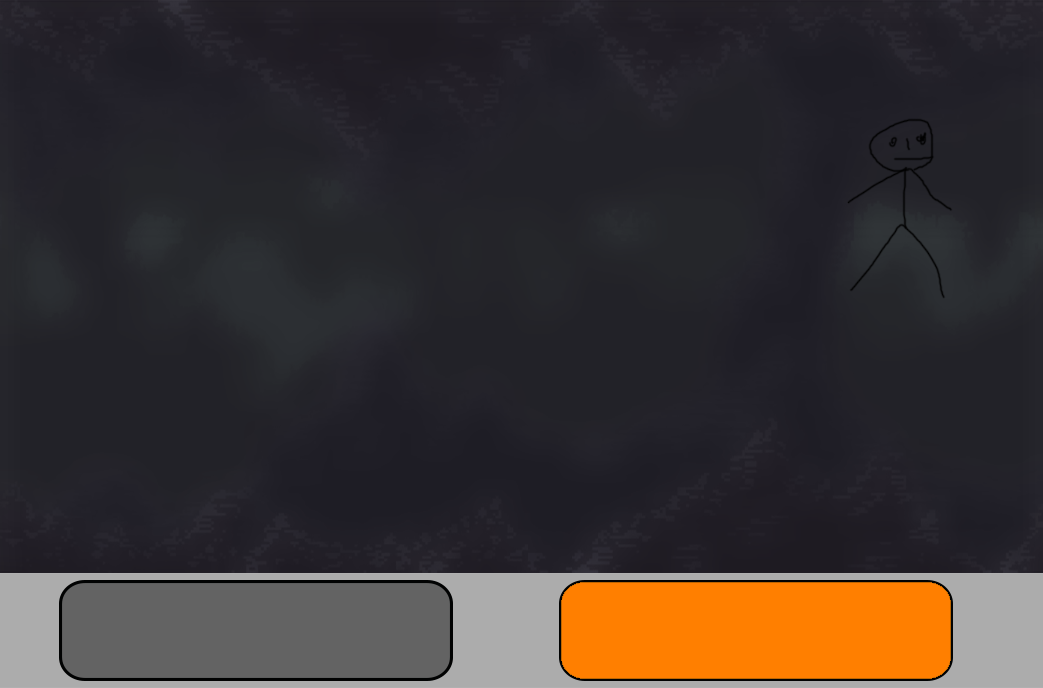
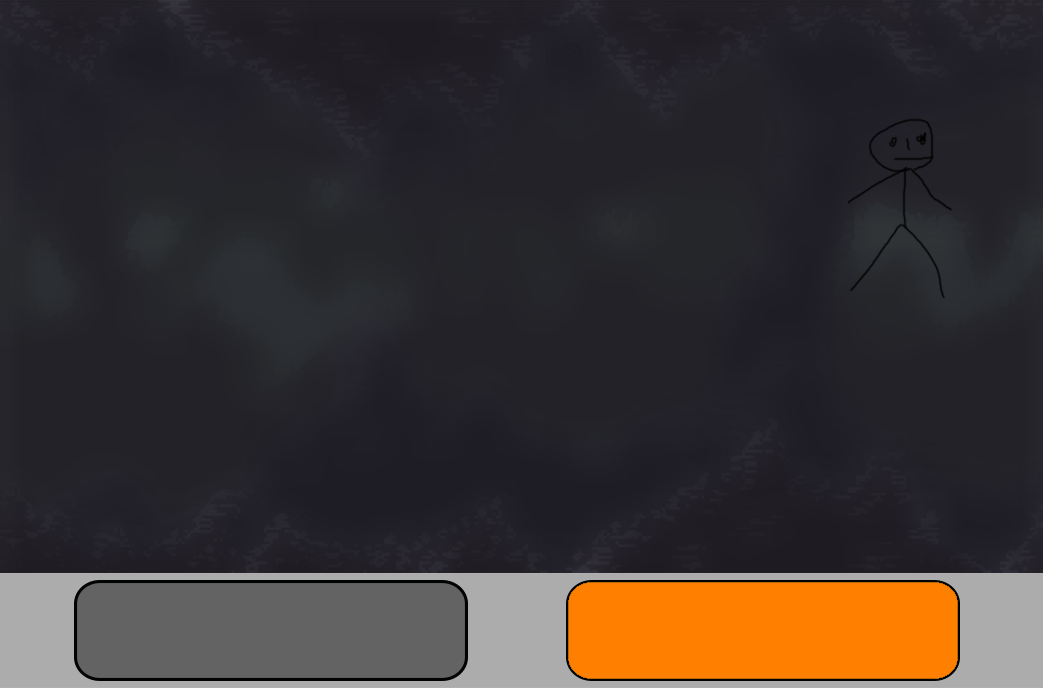
overlay

diff --git a/App/UCPoL/src/app/main/components/game/game.component.scss b/App/UCPoL/src/app/main/components/game/game.component.scss
@@ -6,6 +6,8 @@ $enemy1V : var(--venemy1);
 
 
 .container{
+
+    margin-left: 30px;
     width: 70vw;
     height: 73vh;
     border-style: solid;
@@ -14,6 +16,7 @@ $enemy1V : var(--venemy1);
     overflow: scroll;
     background-repeat: no-repeat;
     background-image: url(../../../../assets/img/env/dom_inside.png);
+    background-color: dimgray;
 }
 .hero{
     width: 128px;
@@ -45,11 +48,12 @@ $enemy1V : var(--venemy1);
     visibility: $vprops;
 }
 #battle{
-    width: 100%;
+    width: 101.5%;
     height: 100%;
     background-image: url(../../../../assets/img/env/tuo.png);
     z-index: 100;
     visibility: $vbattle;
+    margin-left: -30px;
 
 }
 #battle > h1{
@@ -67,14 +71,14 @@ $enemy1V : var(--venemy1);
     
 }
 #battle > div:nth-child(3){
-    margin-top: 49%;
-    margin-left: 12%;
+    margin-top: 48%;
+    margin-left: 13%;
     float: left;
     font-size: 50px;
 }
 
 #battle > div:nth-child(4){
-    margin-top: 45%;
+    margin-top: 44.3%;
     float: left;
     margin-left: 25%;
 

diff --git a/App/UCPoL/src/app/main/components/logs/logs.component.html b/App/UCPoL/src/app/main/components/logs/logs.component.html
@@ -1,14 +1,14 @@
 
 <div class = "container">
   <div class="controls">
-    <button (click)="move(-1,0)" class="left">Left</button>
-    <button (click)="move(0,-1)" class="up">UP</button>
-    <button (click)="move(0,1)" class="down">Down</button>
-    <button (click)="move(1,0)"class="right">Right</button>
+    <button (click)="move(0,-1)" class="up">↑</button><br>
+    <button (click)="move(-1,0)" class="left">←</button>
+    <button (click)="move(0,1)" class="down">↓</button>
+    <button (click)="move(1,0)"class="right">→</button>
 
-  </div>
+  <br></div>
     <li *ngFor="let log of logs">
-  <span class="badge">{{log.date}}</span> : 
+
 {{log.message}} {{log.value}} 
 </li>
 </div>

diff --git a/App/UCPoL/src/app/main/components/logs/log.ts b/App/UCPoL/src/app/main/components/logs/log.ts
@@ -1,17 +1,10 @@
 // tslint:disable-next-line: class-name
 interface logInt {
-    date: Date;
     message: string;
     value: number;
   }
 
-
 export let LOGS: logInt[] = [
-    { date: new Date(), message: 'Otrzymałeś obrażeń:', value: 5 },
-    { date: new Date(), message: 'Otrzymałeś obrażeń:', value: 5 },
-    { date: new Date(), message: 'Otrzymałeś obrażeń:', value: 5 },
-    { date: new Date(), message: 'Otrzymałeś obrażeń:', value: 5 },
-
-  ];
-
-
+      {message: 'Otrzymałeś obrażeń:', value: 5 },
+    ];
+  

diff --git a/App/UCPoL/src/app/main/components/bars/bars.component.scss b/App/UCPoL/src/app/main/components/bars/bars.component.scss
@@ -8,7 +8,7 @@ $hpPrctD : var(--hpPrctd);
     width: 38vw;
     float: right;
     overflow: hidden;
-    background-color: white;
+    background-color: dimgray;
 }
 .circle{
     border: black;
@@ -35,4 +35,11 @@ $hpPrctD : var(--hpPrctd);
     bottom: 0;
     background-image: url(../../../../assets/img/overlay.png);
     pointer-events: none;
+  }
+
+  p{
+    color: black;
+    font-weight: bold;
+    font-size: 20px;
+    margin-left: 86px;
   }

diff --git a/App/UCPoL/src/app/main/components/logs/logs.component.scss b/App/UCPoL/src/app/main/components/logs/logs.component.scss
@@ -5,11 +5,27 @@
     border-width: 1px;
     float:left;
     overflow: scroll;
-    background-color: white;
+    background-color: dimgray;
 }
 .controls{
+    margin-top: 55px;
     position: fixed;
-    float: right;
-    right: 1000px;
+    margin-left: 1020px;
+
 }
 
+
+button.up{
+    margin-left: 30px;
+    width: 30px;
+}
+
+button.down{
+    width: 30px;
+}
+
+li{
+    margin-top: 10px;
+    margin-left: 30px;
+    color: black;
+}

diff --git a/App/UCPoL/src/app/main/components/game/game.component.ts b/App/UCPoL/src/app/main/components/game/game.component.ts
@@ -89,7 +89,7 @@ sleep(ms = 0) {
     } */
   }
   addLog(newMessage:string,newValue:number){
-    this.logs.push({date:new Date(),message:newMessage,value:newValue});
+    this.logs.push({message:newMessage,value:newValue});
 }
   battle():void{
     document.documentElement.style.setProperty('--vprops', `hidden`);

diff --git a/App/UCPoL/src/app/main/components/logs/logs.component.ts b/App/UCPoL/src/app/main/components/logs/logs.component.ts
@@ -16,7 +16,7 @@ export class LogsComponent implements OnInit {
   }
 
   addLog(newMessage:string,newValue:number){
-      this.logs.push({date:new Date(),message:newMessage,value:newValue});
+      this.logs.push({message:newMessage,value:newValue});
   }
   move(newx,newy){
     this.game.move(newx,newy)

diff --git a/App/UCPoL/src/app/app.component.html b/App/UCPoL/src/app/app.component.html
@@ -8,6 +8,7 @@
 <nav class="navbar navbar-expand navbar-dark bg-dark" *ngIf="currentUser">
     <div class="navbar-nav">
         <a class="nav-item nav-link" (click)="logout()">Wyloguj</a>
+        <a routerLink="/about" class="nav-item nav-link" >O GRZE</a>
     </div>
 </nav>
 

diff --git a/App/UCPoL/src/styles.scss b/App/UCPoL/src/styles.scss
@@ -19,12 +19,10 @@ label{
     text-shadow: 0 0 0.2em black;
 }
 
-navbar-nav{
-	height:10%; 
-}
+
 
 a.nav-item.nav-link{
-    float: right;
+    margin-left: 20px;
 }
 body{
     background-color:rgba(0, 0, 0, 0.0);

diff --git a/App/UCPoL/src/app/_content/app.less b/App/UCPoL/src/app/_content/app.less
@@ -13,9 +13,10 @@ label{
     text-shadow: 0 0 0.2em black;
 }
 
-a.nav-item.nav-link{
-    float: right;
-}
+nav{
+	height:10%; 
+	background-color: black;
+	}
 
 html{
     height: 100vh;

diff --git a/App/UCPoL/src/app/main/components/bars/bars.component.html b/App/UCPoL/src/app/main/components/bars/bars.component.html
@@ -1,7 +1,7 @@
 <div id="overlay"></div>
 
 <div class="container">
-<p>Health Bar</p>
+<p>HP</p>
 <div class="circle" id ="hp">
 
 </div>
